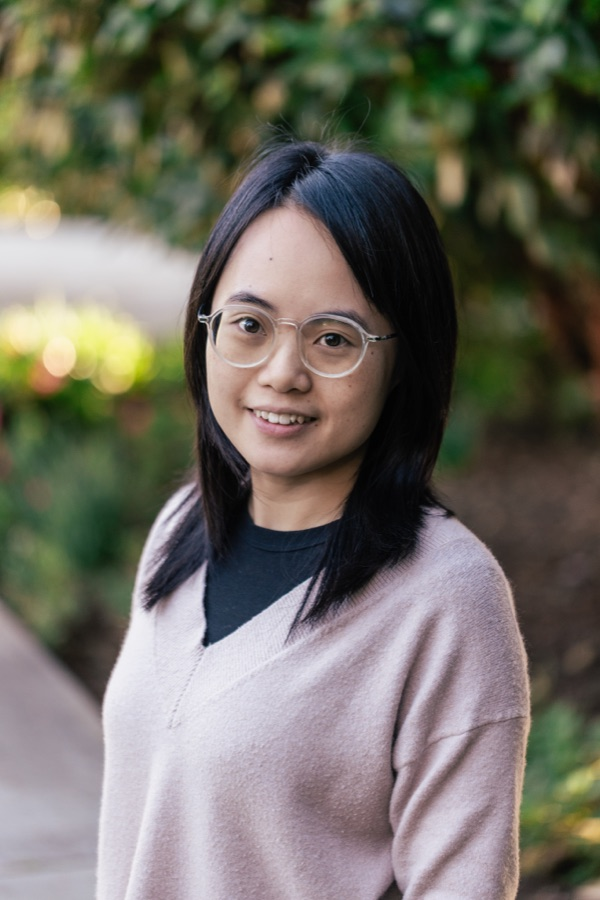
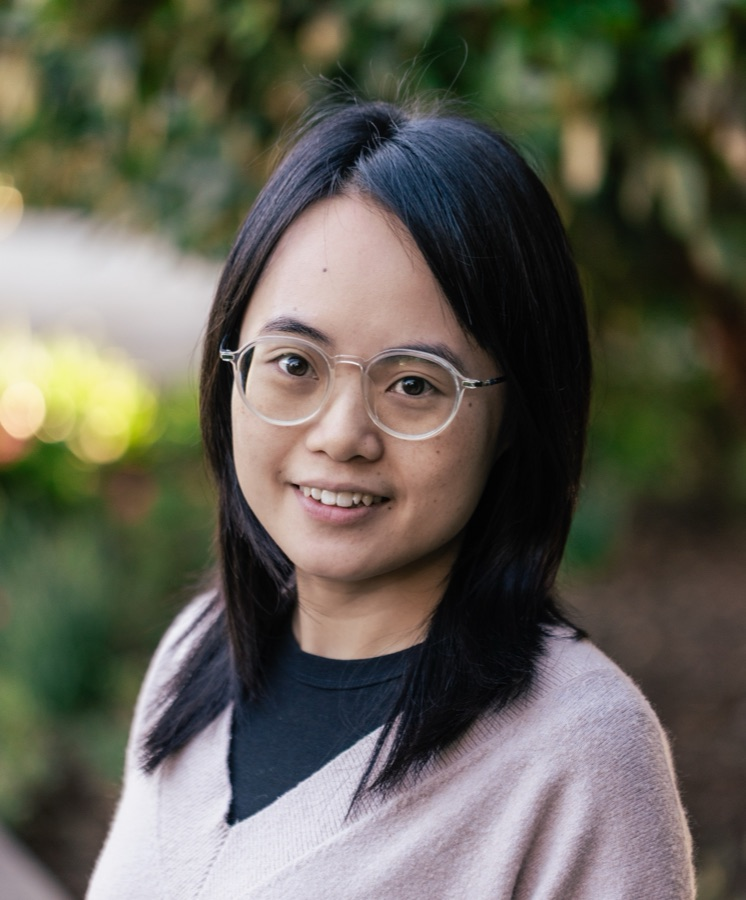
update content

diff --git a/content/aboutme/index.md b/content/aboutme/index.md
@@ -9,8 +9,6 @@ description: "About Xuan Liu, Postdoctoral Scholar at the Scripps Institution of
 
 ![Xuan Liu](scripps_headshot.jpg#center)
 
-I am a Postdoctoral Scholar at the [Scripps Institution of Oceanography](https://scripps.ucsd.edu/), University of California San Diego, working with Prof. Amato Evan. I am an atmospheric scientist studying mineral dust — how it is measured, modeled, and how it affects air quality, human health, and climate. My work combines field observations, elemental and mineralogical analysis, satellite remote sensing, and atmospheric modeling (WRF-Chem) to reduce uncertainty in how dust concentration, composition, and emissions are represented, from instruments to atmospheric models. More on my [research](/research/) and [publications](/publications/).
-
 ---
 
 #### Background
@@ -19,5 +17,10 @@ Since 2024, I have been a postdoctoral scholar at UC San Diego, where my work ha
 
 Before that, I earned my Ph.D. in Energy, Environmental & Chemical Engineering from Washington University in St. Louis (2019–2024), advised by Prof. Jay Turner and Prof. Randall Martin. My dissertation research focused on improving the measurement and quantification of mineral dust in ambient particulate matter. I received my B.S. in Chemical Engineering and Technology from Xiamen University (2015–2019).
 
+---
+
+#### Beyond Research
+
+Outside of work, I enjoy kayaking, hiking, and reading.
 
 ---
